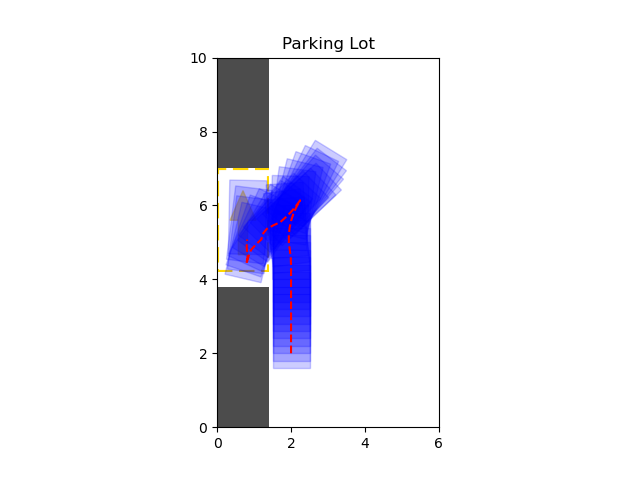
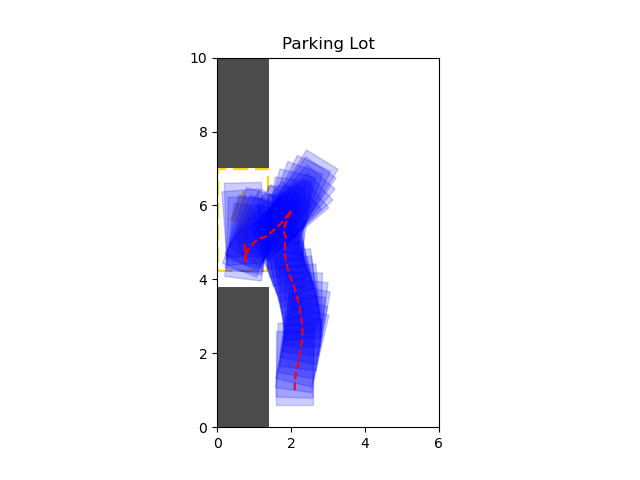
Add animation. Update README.md
Animate the path.

Changed region(s): [[0.3438, 0.2812, 0.5625, 0.8438]]

diff --git a/src/simulations/simulator.py b/src/simulations/simulator.py
@@ -1,9 +1,11 @@
 import toml
 import numpy as np
 import matplotlib.pyplot as plt
+import matplotlib.animation as animation
 import logging
 from models.environment import Environment
 from models.car import Car
+from models.utils import Pose_t
 from algorithms.astar_search import AstarSearch
 
 logging.basicConfig(level=logging.INFO)
@@ -47,17 +49,49 @@ class Simulator:
     def run(self):
         path = self.search()
         if path is not None:
-            fig, ax = self.env.draw()
+            if self.config["result"]["save_gif"]:
+                self._draw_gif(path, False)
+            if self.config["result"]["save_png"]:
+                self._draw_png(path, True)
 
-            plt.plot([p[0] for p in path], [p[1] for p in path], 'r--')
+    def _draw_png(self, path: list[Pose_t], show=True):
+        fig, ax = self.env.draw()
 
-            for pose in path:
-                self.car.update(pose)
-                self.car.draw(fig, ax)
+        plt.plot([p[0] for p in path], [p[1] for p in path], 'r--')
+        for pose in path:
+            self.car.update(pose)
+            ax.add_patch(self.car.patch(redraw=True))
 
-            if self.config["result"]["save"]:
-                plt.savefig(self.config["result"]["path"])
+        if self.config["result"]["save_png"]:
+            plt.savefig(self.config["result"]["png_path"])
 
+        if show:
+            plt.show()
+
+    def _draw_gif(self, path: list[Pose_t], show=True):
+        fig, ax = self.env.draw()
+
+        start_freeze = 20
+        goal_freeze = 40
+        total_frames = len(path) + start_freeze + goal_freeze - 1
+
+        x = [p[0] for p in path]
+        y = [p[1] for p in path]
+
+        def animate(i):
+            line = ax.plot([], [], 'r--')
+            if i < start_freeze:
+                self.car.update(path[0])
+            elif i < len(path) + start_freeze:
+                self.car.update(path[i - start_freeze])
+                line = ax.plot(x[:i - start_freeze], y[:i - start_freeze], 'r--')
+            return ax.add_patch(self.car.patch(redraw=False)), line
+
+        ani = animation.FuncAnimation(fig, animate, repeat=True,
+                                      frames=total_frames, interval=50)
+        ani.save(self.config["result"]["gif_path"], writer='imagemagick', fps=20)
+
+        if show:
             plt.show()
 
 

diff --git a/src/models/car.py b/src/models/car.py
@@ -21,21 +21,23 @@ class Car:
         assert 0 < max_steering_angle_deg < 90, "Max steering angle degree must be less than 90 degrees."
         self.max_steering_angle = max_steering_angle_deg * np.pi / 180
         self.minimum_turning_radius = self.wheelbase / np.tan(self.max_steering_angle)
+        # plot
+        self.rect = None
 
     def update(self, new_pose: Pose_t) -> None:
         self.pose = new_pose
 
-    def draw(self, fig: plt.Figure = None, ax: plt.Axes = None) -> tuple[plt.Figure, plt.Axes]:
-        if fig is None or ax is None:
-            fig, ax = plt.subplots(111)
-
+    def patch(self, redraw: bool = True) -> plt.Rectangle:
         x, y, phi = self.pose
         left_bottom = (x - (self.rear_to_base_axle * np.cos(phi) - self.width / 2 * np.sin(phi)),
                        y - (self.rear_to_base_axle * np.sin(phi) + self.width / 2 * np.cos(phi)))
 
-        rect = patches.Rectangle(left_bottom, self.length, self.width,
-                                 color='blue', alpha=0.2,
-                                 angle=phi * 180 / np.pi)
-        ax.add_patch(rect)
+        if redraw or self.rect is None:
+            self.rect = patches.Rectangle(left_bottom, self.length, self.width,
+                                          color='blue', alpha=0.2,
+                                          angle=phi * 180 / np.pi)
+        else:
+            self.rect.set_xy(left_bottom)
+            self.rect.set_angle(phi * 180 / np.pi)
 
-        return fig, ax
+        return self.rect

diff --git a/README.md b/README.md
@@ -11,7 +11,7 @@ The vehicle is modeled with [Ackermann steering geometry](https://en.wikipedia.o
 the origin $`O`$ is chosen to be the center of the rear axle,
 because the center of the turning circle always lies on the extension of the rear axle. 
 
-![Ackermann geometry](resources/modeling.png)
+<p align="center"><img src="resources/modeling.png" width=400></p>
 
 <!-- ### Kinematic Equations of The Vehicle
 
@@ -50,12 +50,23 @@ or create a new configuration file.
 
 ### Path finding
 
-![](resources/parking-lot-1.png)
-![](resources/parking-lot-2.png)
-![](resources/parking-lot-3.png)
-![](resources/parking-lot-4.png)
+---
+<img src="resources/parking-lot-1.png" width=300>
+<img src="resources/parking-lot-1.gif" width=300>
+
+---
+<img src="resources/parking-lot-2.png" width=300>
+<img src="resources/parking-lot-2.gif" width=300>
+
+---
+<img src="resources/parking-lot-3.png" width=300>
+<img src="resources/parking-lot-3.gif" width=300>
+
+---
+<img src="resources/parking-lot-4.png" width=300>
+<img src="resources/parking-lot-3.gif" width=300>
 
 ### Reeds-Shepp curve
 
-![](resources/reeds-shepp-1.png)
-![](resources/reeds-shepp-2.png)
+<img src="resources/reeds-shepp-1.png" width=300>
+<img src="resources/reeds-shepp-2.png" width=300>
